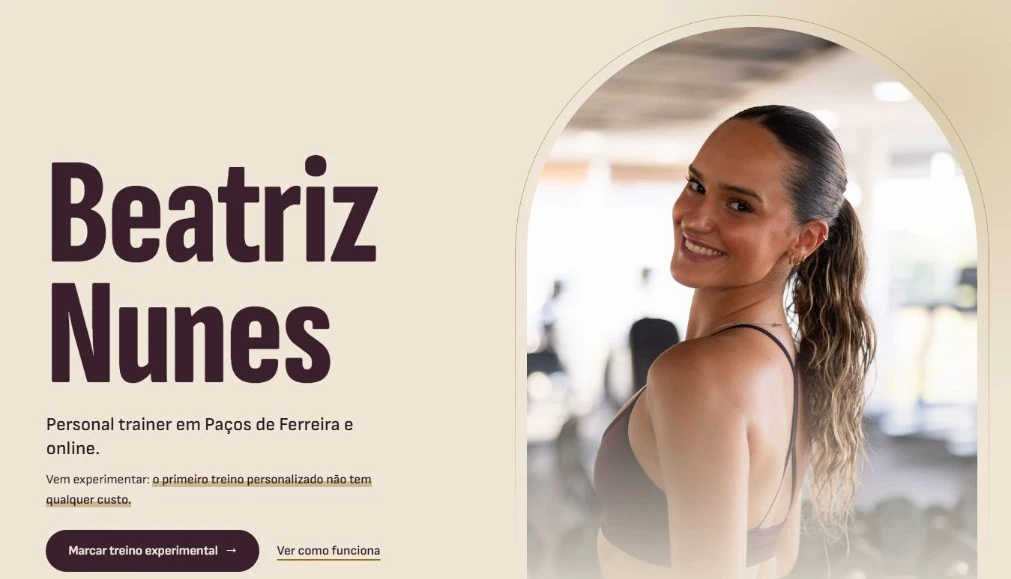
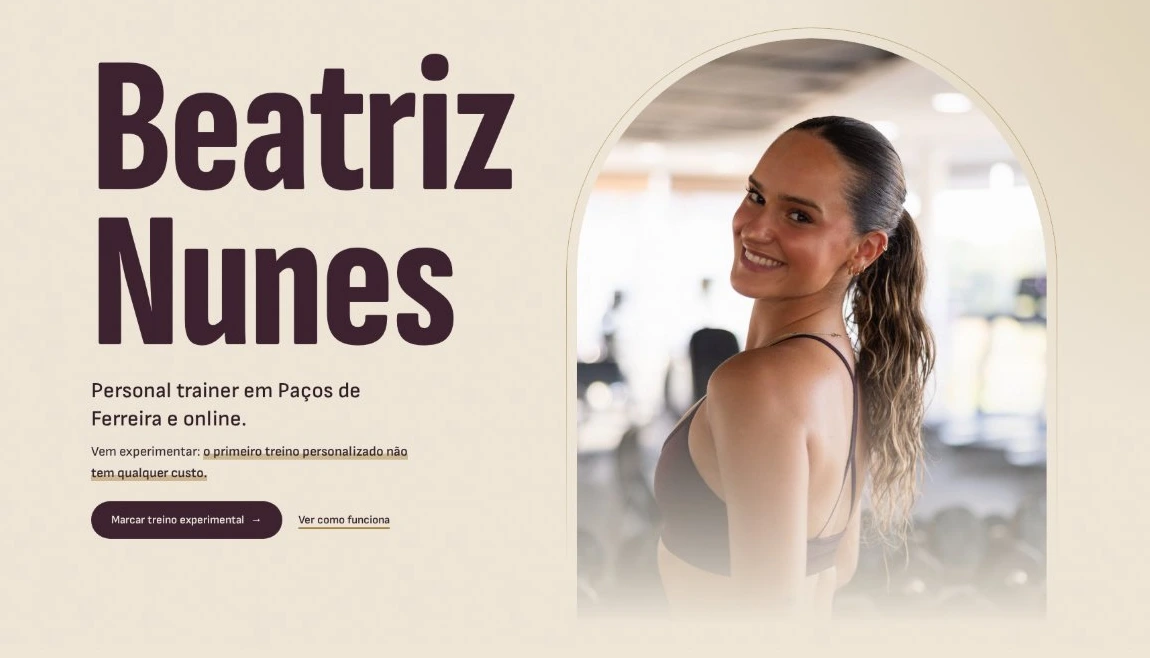
Beatriz Nunes: screenshots nítidos e telemóvel em vez de repetir a abertura
Claude-Session: https://claude.ai/code/session_01D2WuktLUmQBFrH9LYm2cRR

diff --git a/src/data/casos.ts b/src/data/casos.ts
@@ -298,8 +298,9 @@ export const casos: Record<string, Caso> = {
       'Um redesign secção a secção, com as cores e as letras que ela escolheu: abertura com foto em arco, painéis arredondados, cartões de resultados e galeria em faixa. Por trás, o formulário passou a enviar os pedidos para o email dela, o menu foi pensado para o telemóvel, o link mostra foto e descrição quando é partilhado no WhatsApp e a parte legal ficou tratada.',
     resultado:
       'Site público em personaltrainerbeatriznunes.pt desde outubro de 2026, com domínio próprio e os pedidos de treino experimental a chegar diretamente ao email.',
-    // Sem cores nem fontes até estarem confirmadas; sem screenshot de telemóvel por agora.
-    desktop: '/img/trabalhos/beatriz-nunes-desktop.webp',
+    // Sem cores nem fontes até estarem confirmadas.
+    // A abertura em computador já aparece no topo; aqui fica só o telemóvel, para não repetir.
+    mobile: '/img/trabalhos/beatriz-nunes-mobile.webp',
     seccoesExtra: [
       {
         etiqueta: 'Antes e depois',
